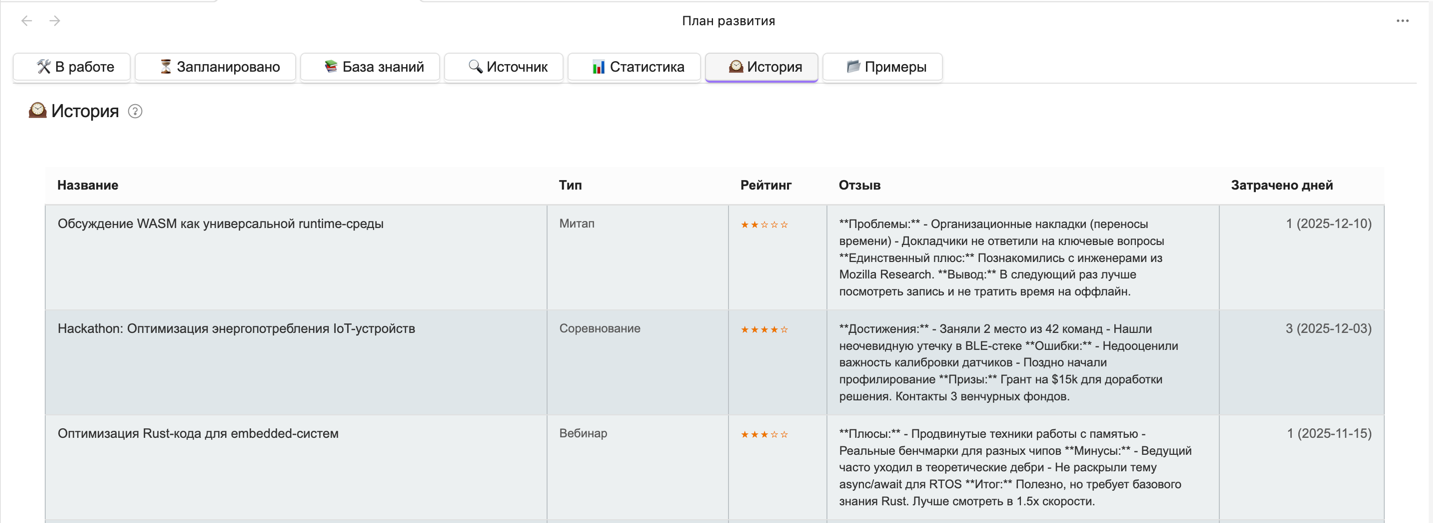
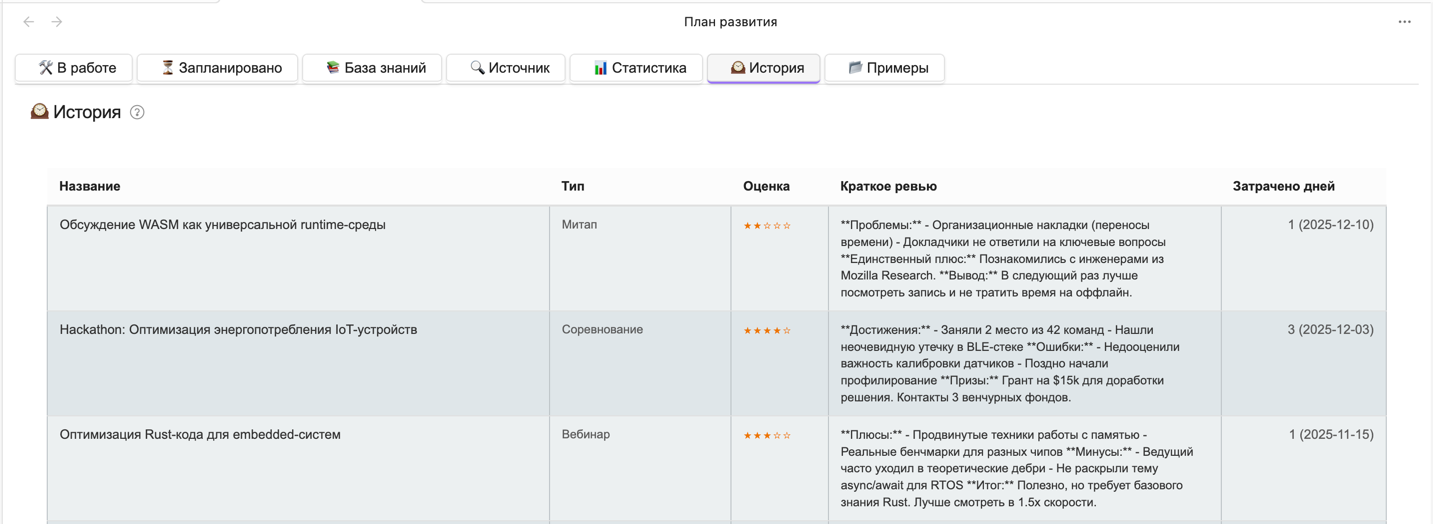
Add History

diff --git a/localization/localization-ru.ts b/localization/localization-ru.ts
@@ -231,8 +231,8 @@ export const ru: TranslationKeys = {
     historyStartDate: "Дата начала",
     historyCompletionDate: "Дата завершения",
     historyWorkingDays: "Затрачено дней",
-    historyRating: "Рейтинг",
-    historyReview: "Отзыв"
+    historyRating: "Оценка",
+    historyReview: "Краткое ревью"
 };
 
 export const ruParametrized: ParametrizedTranslations = {

diff --git a/docs/history.md b/docs/history.md
@@ -4,15 +4,12 @@
 
 ## Формат записи истории
 
-После завершения задачи она сохраняется в истории.
+После завершения задача сохраняется в истории.
 
 Структура архивированных задач следующая:
 
-- **Тип**
 - **Название**
-- **Дата начала**
-- **Дата завершения**
-- **Затрачено дней**
+- **Тип**
 - **Оценка**:
 	- ★ - Плохо (не соответствует ожиданиям)
 	- ★★ - Удовлетворительно (минимально полезно)
@@ -24,6 +21,8 @@
 	- Полезные идеи
 	- Критика и замечания
 	- Рекомендации (Да/Нет) с обоснованием
+- **Затрачено дней**
+    - Считается количество дней с даты начала до даты завершения включительно
 
 ## Задача
 
